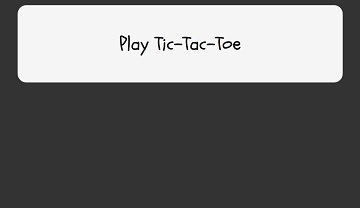
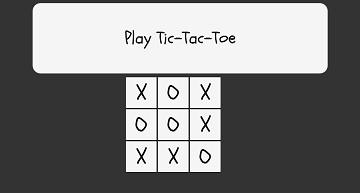
display game board and alternate between X and O each turn

Changed region(s): [[0.0306, 0.0, 0.9778, 0.9016], [0.3361, 0.1554, 0.6722, 0.2798]]

diff --git a/index.html b/index.html
@@ -12,6 +12,23 @@
   <body>
     <div class="container">
       <h1>Play Tic-Tac-Toe</h1>
+      <div id="playArea" class="center-block">
+        <div class="row">
+          <div class="col-xs-4" id="a1"></div>
+          <div class="col-xs-4" id="a2"></div>
+          <div class="col-xs-4" id="a3"></div>
+        </div>
+        <div class="row">
+          <div class="col-xs-4" id="b1"></div>
+          <div class="col-xs-4" id="b2"></div>
+          <div class="col-xs-4" id="b3"></div>
+        </div>
+        <div class="row">
+          <div class="col-xs-4" id="c1"></div>
+          <div class="col-xs-4" id="c2"></div>
+          <div class="col-xs-4" id="c3"></div>
+        </div>
+      </div>
     </div>
   <script src="js/jquery-1.12.2.js"></script>
   <script src="js/bootstrap.js"></script>

diff --git a/js/scripts.js b/js/scripts.js
@@ -1,1 +1,23 @@
 //alert("jQuery is working on " + $("h1").text()); //test for jQuery linked and loaded correctly
+
+//game logic
+
+
+//ui logic
+function gameUI() {}
+  var player1Mark = "X";
+  var player2Mark = "O";
+  var turn=0;
+
+  $(".col-xs-4").click(function() {
+    if($(this).text()==="") {
+      turn++;
+      if(turn%2===1) {
+        $(this).text(player1Mark);
+      } else {
+        $(this).text(player2Mark);
+      }
+    } else {
+      alert("You can only place a mark on empty squares, please try again.");
+    }
+  });

diff --git a/css/styles.css b/css/styles.css
@@ -10,3 +10,19 @@ h1 {
   font-family: 'Schoolbell', cursive;
   border-radius: 25px;
 }
+.col-xs-4 {
+  border: solid 1px black;
+  background-color: #f5f5f5;
+  color: black;
+  height: 100px;
+  width: 100px;
+  margin: 1px;
+  font-size: 5em;
+  font-family: 'Schoolbell', cursive;
+  text-align: center;
+}
+
+#playArea {
+  width: 320px;
+  margin: auto;
+}

diff --git a/README.md b/README.md
@@ -1,7 +1,7 @@
 # [Tic-Tac-Toe](http://karenfreemansmith.github.io/tic-tac-toe)
 ![project screenshot](/img/screenshot.jpg)
 
-__Version 1: April 18, 2016__
+__Version 1: May 4, 2016__
 ## by [Karen Freeman-Smith](http://karenfreemansmith.github.io)
 
 ### Description
@@ -25,7 +25,8 @@ Consider making four constructors/prototypes: Player, Space, Board, and Game. Th
 For questions or comments, please __email [Karen](karenfreemansmith@gmail.com)__
 
 ### Known Issues
-* Still Under Construction
+* No objects implemented
+* "Game" cannot tell if it's over, or if anyone won yet
 
 ### Technologies Used
 ###### HTML, CSS, Bootstrap, JavaScript, jQuery
